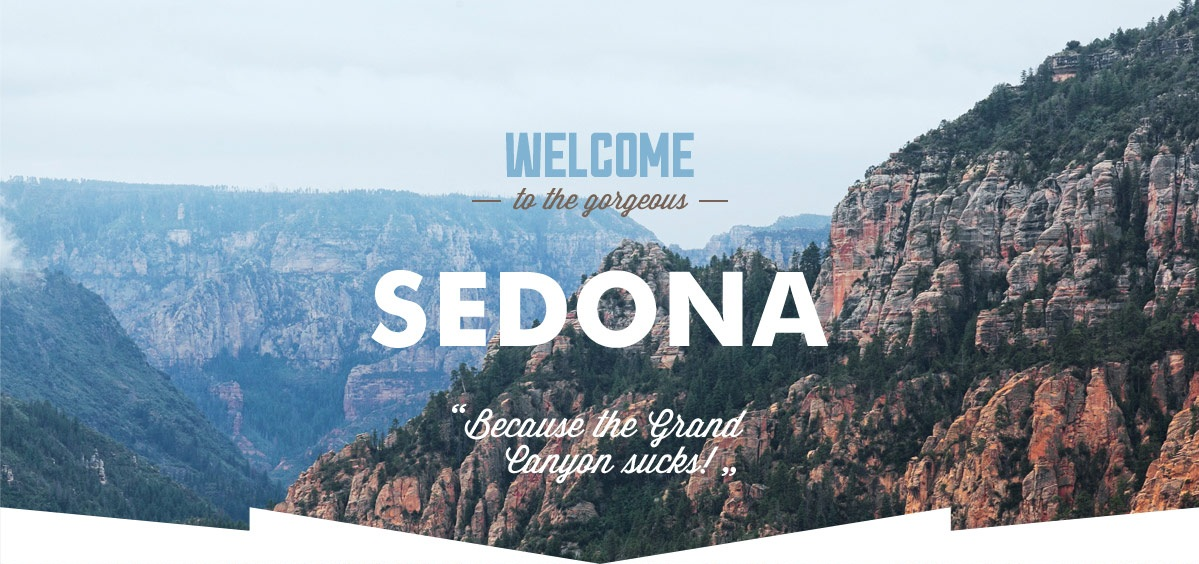
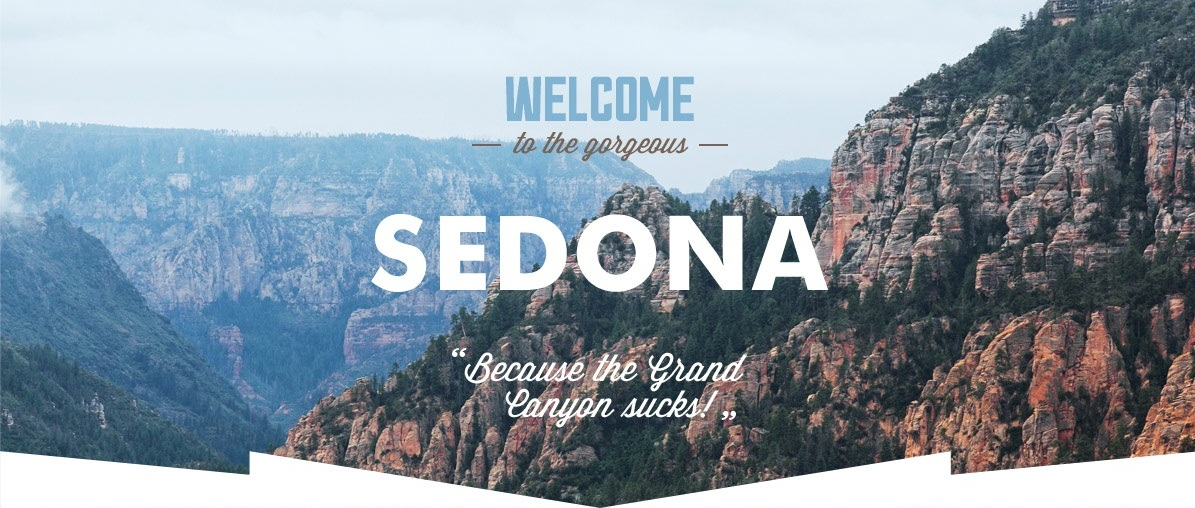
Исправление седьмого задания

diff --git a/css/index.sedona.css b/css/index.sedona.css
@@ -214,8 +214,8 @@ input[type="radio"].visually-hidden{
 }
 
 figure{
-  width: 1199px;
-  height: 564px;
+  width: 1195px;
+  height: 508px;
   margin: 0;
   margin-bottom: 60px;
   padding: 0;
@@ -516,7 +516,7 @@ figure{
 }
 
 .search-tour .interested{
-  margin-bottom: 35px;
+  margin-bottom: 30px;
 
   font-size: 30px;
   line-height: 36px;
@@ -599,7 +599,7 @@ figure{
 }
 
 .appointment-item:nth-child(3) label{
-  margin-right: 40px;
+  margin-right: 42px;
 }
 
 .appointment-item:nth-child(4) label{
@@ -616,7 +616,10 @@ figure{
 
 .appointment-item:nth-child(3) input,
 .appointment-item:nth-child(4) input{
-  width: 118px;
+  width: 38px;
+  height: 38px;
+  margin: 0;
+  padding: 0;
 
   text-align: center;
 }
@@ -643,6 +646,7 @@ figure{
 .appointment .button{
   display: block;
   width: 100%;
+  padding: 19px 0;
 }
 
 .appointment .search{
@@ -653,31 +657,15 @@ figure{
   padding: 30px;
 }
 
-.appointment-item label{
+.appointment-item{
   position: relative;
 }
 
-.appointment-item:first-child label::after,
-.appointment-item:nth-child(2) label::after{
+.appointment-item span::before{
   content: "";
   position: absolute;
-  right: -375px;
-  top: 0;
-
-  width: 21px;
-  height: 22px;
-
-  background-image: url("../img/calendar-black.svg");
-  background-repeat: no-repeat;
-  background-position: 0 0;
-}
-
-.appointment-item:first-child label::after:hover,
-.appointment-item:nth-child(2) label::hover{
-  content: "";
-  position: absolute;
-  right: -375px;
-  top: 0;
+  right: 20px;
+  top: 10px;
 
   width: 21px;
   height: 22px;
@@ -687,40 +675,58 @@ figure{
   background-position: 0 0;
 }
 
+.appointment-item span:hover::before{
+  fill:#000000;
+}
+
+.appointment-item span:hover::before{
+  fill:#81b3d2;
+}
+
+.appointment-item:nth-child(3),
+.appointment-item:nth-child(4){
+  display: inline-block;
+  vertical-align: bottom;
+
+  font-size: 0;
+}
+
 button.minus{
-  background: none;
+  width: 38px;
+	height: 38px;
+
+  font-size: 14px;
+  line-height: 26px;
+  font-weight: 700;
+  color: #a9a9a9;
+
+	background-color: #f2f2f2;
   border: none;
   border-radius: 0;
 }
 
 button.plus{
-  background: none;
+  width: 38px;
+	height: 38px;
+
+  font-size: 14px;
+  line-height: 26px;
+  font-weight: 700;
+  color: #a9a9a9;
+
+	background-color: #f2f2f2;
   border: none;
   border-radius: 0;
 }
 
-.appointment-item:nth-child(3) button.minus{
-  position: absolute;
-
-  left: 180px;
+button.minus:hover,
+button.plus:hover{
+  color: #000000;
 }
 
-.appointment-item:nth-child(4) button.minus{
-  position: absolute;
-
-  left: 414px;
-}
-
-.appointment-item:nth-child(3) button.plus{
-  position: absolute;
-
-  left: 255px;
-}
-
-.appointment-item:nth-child(4) button.plus{
-  position: absolute;
-
-  left: 489px;
+button.minus:focus,
+button.plus:focus{
+  color: #81b3d2;
 }
 
 .filters{
@@ -795,6 +801,11 @@ button.plus{
   opacity: 0.3;
 }
 
+.filter-input:active + label{
+  color: #766357;
+  opacity: 0.3;
+}
+
 .filter-input-checkbox + label::before{
   content: "";
 
@@ -824,6 +835,14 @@ button.plus{
   background-image: url("../img/checkbox-on.svg");
   background-repeat: no-repeat;
   background-position: 0 0;
+}
+
+.filter-input-checkbox:disabled + label::before{
+  border-color:#6a6a6a;
+}
+
+.filter-input-checkbox:checked:disabled + label::before{
+  background-image: url("../img/checkbox-on-disabled.svg");
 }
 
 .filter-cost{
@@ -966,6 +985,8 @@ button.plus{
 }
 
 a.sorting-option-up{
+  content: "";
+
   margin-right: 15px;
   position: absolute;
   top: 5px;
@@ -982,6 +1003,8 @@ a.sorting-option-up{
 }
 
 a.sorting-option-down{
+  content: "";
+
   position: absolute;
   top: 5px;
 
@@ -992,13 +1015,15 @@ a.sorting-option-down{
   background-repeat: no-repeat;
 }
 
-a.sorting-option-up:hover polygon,
-a.sorting-option-down:hover polyline{
-  fill: #231f20;
+a.sorting-option-up:hover,
+a.sorting-option-down:hover{
+  background-image: url("../img/icon-down-black.svg");
 }
 
-a.sorting-option-up:focus polygon,
-a.sorting-option-down:focus polyline{
+a.sorting-option-up:focus,
+a.sorting-option-up:active,
+a.sorting-option-down:focus,
+a.sorting-option-down:active{
   fill: #81b3d2;
 }
 

diff --git a/index.html b/index.html
@@ -31,7 +31,7 @@
       <h1 class="visually-hidden">Сайт«Sedona»</h1>
 
       <figure>
-        <img src="img/main-image.jpg" width="1200" height="564" alt="Добро пожаловать в Седону">
+        <img src="img/main-image.jpg" width="1195" height="508" alt="Добро пожаловать в Седону">
       </figure>
 
       <section class="dignities">
@@ -108,11 +108,13 @@
             <form class="appointment-form" action="https://echo.htmlacademy.ru" method="post">
               <p class="appointment-item">
                 <label for="appointment-date-arrive">Дата заезда:</label>
-                <input id="appointment-date-arrive" type="text" name="date" value="24 апреля 2017" class="icon-calendar" placeholder="В формате дд-мм-гггг")>
+                <input id="appointment-date-arrive" type="text" name="date" value="24 апреля 2017" class="icon-calendar" placeholder="В формате дд-мм-гггг">
+                <span></span>
               </p>
               <p class="appointment-item">
                 <label for="appointment-date-leave">Дата выезда:</label>
                 <input id="appointment-date-leave" type="text" name="date" value="4 июля 2017"  class="icon-calendar" placeholder="В формате дд-мм-гггг">
+                <span></span>
               </p>
               <p class="appointment-item">
                 <label for="appointment-grownup">Взрослые:</label>

diff --git a/sedona-hotels.html b/sedona-hotels.html
@@ -36,7 +36,7 @@
               <legend>Инфраструктура:</legend>
               <ul>
                 <li class="filter-option">
-                  <input class="visually-hidden filter-input filter-input-checkbox" type="checkbox" name="pool" id="filter-pool" checked>
+                  <input class="visually-hidden filter-input filter-input-checkbox" type="checkbox" name="pool" id="filter-pool" checked disabled>
                   <label for="filter-pool">Бассейн</label>
                 </li>
                 <li class="filter-option">
